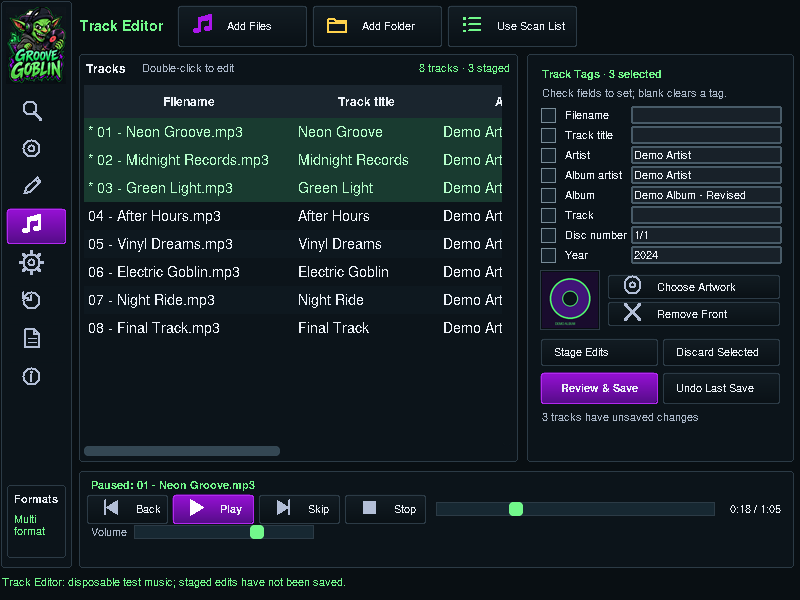
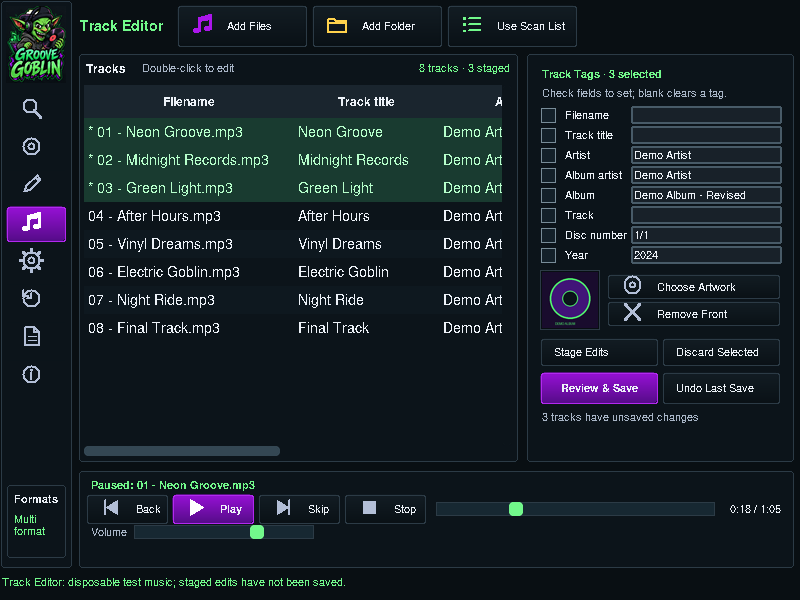
Polish sidebar branding, format footer and About window

diff --git a/groove_layout.py b/groove_layout.py
@@ -35,6 +35,46 @@ def install_layout(cls):
     old_clear=cls.clear
     old_show=cls.show_editor
 
+    def show_about(self):
+        existing=getattr(self,'_about_window',None)
+        if existing is not None and existing.winfo_exists():
+            existing.lift();existing.focus_set();return
+        window=tk.Toplevel(self,bg=BG)
+        self._about_window=window
+        window.title('About Groove Goblin');window.transient(self)
+        window.geometry('620x540');window.minsize(560,520)
+        body=tk.Frame(window,bg=BG);body.pack(fill='both',expand=True,padx=16,pady=14)
+        Button(body,'Close',window.destroy,width=110,height=36,primary=True,font=(self.ui_font,10)).pack(side='bottom',anchor='e',pady=(4,0))
+        heading=tk.Frame(body,bg=BG);heading.pack(fill='x',pady=(0,8))
+        tk.Label(heading,text='GROOVE GOBLIN',bg=BG,fg=GREEN,font=(self.ui_font,18,'bold')).pack(anchor='w')
+        tk.Label(heading,text=f'Version {__version__}',bg=BG,fg=MUTED,font=(self.ui_font,9)).pack(anchor='w',pady=(2,4))
+        description=tk.Label(heading,text='Match albums, edit tags and artwork, organize files and folders,\nand listen to your music.',bg=BG,fg=FG,font=(self.ui_font,9),justify='left',anchor='w')
+        description.pack(fill='x')
+        wrapped=[description]
+        def section(title,height):
+            panel=Panel(body,height=height,padding=12)
+            panel.pack(fill='x',pady=(0,10))
+            tk.Label(panel.body,text=title,bg=PANEL,fg=GREEN,font=(self.ui_font,11,'bold')).pack(anchor='w',pady=(0,6))
+            return panel.body
+        def paragraph(parent,text,color=FG):
+            label=tk.Label(parent,text=text,bg=PANEL,fg=color,font=(self.ui_font,9),justify='left',anchor='w')
+            label.pack(fill='x',pady=(0,3));wrapped.append(label)
+            return label
+        formats=section('Audio formats',190)
+        paragraph(formats,'Tag editing, artwork and playback',GREEN)
+        paragraph(formats,'WAV, AIFF, FLAC, ALAC/M4A, APE, WavPack, MP3, Ogg/Vorbis,\nWMA, Opus and DSD (DSF/DFF).')
+        paragraph(formats,'AAC / PCM — Filename editing and playback only. Raw PCM needs its sample settings.',MUTED)
+        paragraph(formats,'CDA — A reference to a track on an audio CD. Rip the CD to an audio file before editing or playback.',MUTED)
+        saving=section('Changes & undo',134)
+        paragraph(saving,'Scanning and previews leave your music unchanged.')
+        paragraph(saving,'Track Editor saves keep full-file backups for Undo.',MUTED)
+        paragraph(saving,'Organizer Undo restores the edited tags and file/folder names. Keep your own music backup too.',MUTED)
+        def resize(event):
+            if event.widget is window:
+                for label in wrapped:label.configure(wraplength=max(420,event.width-64))
+        window.bind('<Configure>',resize,add='+')
+        window.bind('<Escape>',lambda event:window.destroy())
+
     def build_style(self):
         old_style(self)
         self.ui_font='Segoe UI' if 'Segoe UI' in tkfont.families(self) else 'Helvetica'
@@ -159,9 +199,8 @@ def install_layout(cls):
         with Image.open(Path(__file__).parent/'assets/groove_goblin_logo.png') as source:
             im=source.convert('RGBA');im.thumbnail((238,316),Image.Resampling.LANCZOS)
             self.logo=ImageTk.PhotoImage(im,master=self)
-        self._logo_label=tk.Label(brand,image=self.logo,bg=PANEL)
+        self._logo_label=tk.Label(brand,image=self.logo,bg=PANEL,bd=0,padx=0,pady=0)
         self._logo_label.pack(pady=(0,8))
-        tk.Label(brand,text='MUSIC TAGGER\n& ORGANIZER',bg=PANEL,fg=FG,font=(self.ui_font,10,'bold')).pack(pady=(0,17))
         nav=tk.Frame(side,bg=PANEL)
         nav.grid(row=1,column=0,sticky='ew')
         for name,label,symbol,action in [
@@ -172,18 +211,19 @@ def install_layout(cls):
             ('settings','Settings','gear',self.show_settings),
             ('undo','Undo / Backups','undo',lambda:self.tabs.select(self.tab_history)),
             ('logs','View Logs','files',lambda:self.tabs.select(self.tab_history)),
-            ('about','About','info',lambda:messagebox.showinfo('Groove Goblin',f'Groove Goblin {__version__}\nMusic tagger & organizer\n\nScanning and preview are read-only.\nEmbedded tags: WAV/AIFF, FLAC, ALAC/M4A, APE, WV,\nMP3, Ogg/Opus, WMA, DSF/DFF.\nRaw AAC/PCM: filenames and playback.\nCDA: CD references; rip before editing/playing.\nManual saves keep full-file undo backups.\nOrganizer journals store edited fields and paths.')),
+            ('about','About','info',self.show_about),
         ]:
             b=Button(nav,label,action,width=234,height=49,symbol=symbol,navigation=True,font=(self.ui_font,11))
             b.active=name=='scan';b.pack(fill='x',pady=1);self.nav_buttons[name]=b
         formats=Panel(side,height=160,padding=12)
         formats.grid(row=3,column=0,sticky='ew',pady=(8,12))
         tk.Label(formats.body,text='Supported Formats',bg=PANEL,fg=FG,font=(self.ui_font,10,'bold')).pack(anchor='w')
+        format_note=tk.Label(formats.body,text='* Format limits: see About',bg=PANEL,fg=MUTED,font=(self.ui_font,8),anchor='w')
+        format_note.pack(side='bottom',fill='x',pady=(4,0))
         formats_inner=tk.Frame(formats.body,bg=PANEL);formats_inner.pack(fill='both',expand=True,pady=(14,0))
         doc=tk.Canvas(formats_inner,width=76,height=84,bg=PANEL,highlightthickness=0)
         doc.pack(side='left',padx=(0,15));icon(doc,'files',6,2,70,'#c4cedc')
         tk.Label(formats_inner,text='WAV AIFF FLAC\nMP3 M4A ALAC\nAPE WV WMA\nOGG OPUS DSD\nAAC PCM CDA*',bg=PANEL,fg=GREEN,font=(self.ui_font,9),justify='left').pack(anchor='w')
-        tk.Label(formats_inner,text='* Limits: see About',bg=PANEL,fg=MUTED,font=(self.ui_font,8)).pack(anchor='w',pady=(9,0))
         tk.Label(side,text=f'Groove Goblin v{__version__}',bg=PANEL,fg=MUTED,font=(self.ui_font,9)).grid(row=4,column=0,sticky='w',pady=(4,8))
 
         # Main center + compact right rail.
@@ -317,7 +357,7 @@ def install_layout(cls):
         from groove_track_editor import TrackEditor
         self.track_editor=TrackEditor(self)
         from groove_responsive import ResponsiveLayout
-        self._responsive=ResponsiveLayout(self,dict(sidebar=sidebar,side=side,brand=brand,nav=nav,formats=formats,doc=doc,
+        self._responsive=ResponsiveLayout(self,dict(sidebar=sidebar,side=side,brand=brand,nav=nav,formats=formats,doc=doc,format_note=format_note,
             center=center,toolbar=toolbar,checkrow=checkrow,albums=albums,preview=preview,filters=filters,views=views,
             opts=opts,details=details,results=results,form=form,yearrow=yearrow,actions=actions,
             footer=footer,footer_spacer=footer_spacer,controls=controls))
@@ -467,7 +507,7 @@ def install_layout(cls):
     cls.build_style=build_style;cls.build_ui=build_ui
     cls.refresh_preview=refresh_preview;cls.clear=clear;cls.show_editor=show_editor
     cls.populate_albums=populate_albums;cls.update_cover=update_cover;cls.result_cover=result_cover;cls.choose_result=choose_result
-    cls.show_settings=show_settings;cls.add_files=add_files
+    cls.show_settings=show_settings;cls.show_about=show_about;cls.add_files=add_files
     cls.toggle_all_preview=toggle_all_preview
     cls.toggle_all_albums=toggle_all_albums
     cls.toggle_album_id=toggle_album_id;cls.toggle_preview_id=toggle_preview_id

diff --git a/groove_responsive.py b/groove_responsive.py
@@ -17,7 +17,6 @@ class ResponsiveLayout:
         self.walk(app)
         self.toolbar=list(widgets['toolbar'].winfo_children())
         self.checks=[child for child in widgets['checkrow'].winfo_children() if isinstance(child,Check)]
-        self.caption=[c for c in widgets['brand'].winfo_children() if isinstance(c,tk.Label) and c is not app._logo_label][0]
         self.version=[c for c in widgets['side'].winfo_children() if isinstance(c,tk.Label)][0]
         self.format_title=widgets['formats'].body.winfo_children()[0]
         self.format_inner=widgets['doc'].master
@@ -98,15 +97,15 @@ class ResponsiveLayout:
             panel.resize(SimpleNamespace(width=panel.winfo_width(),height=panel.winfo_height()))
 
         nav_height=(36 if compact else (40 if medium else 49))+2
-        logo_budget=max(70,height-len(a.nav_buttons)*nav_height-(74 if self.icon_nav else (128 if medium else 170))-140)
-        logo_width=60 if self.icon_nav else min(156 if medium else 238,int(logo_budget*self.logo_source.width/self.logo_source.height))
+        logo_budget=max(70,height-len(a.nav_buttons)*nav_height-(74 if self.icon_nav else (128 if medium else 170))-90)
+        logo_width=60 if self.icon_nav else min(160 if medium else 238,int(logo_budget*self.logo_source.width/self.logo_source.height))
         if logo_width!=self.logo_size:
             img=self.logo_source.copy();img.thumbnail((logo_width,320),Image.Resampling.LANCZOS)
             a.logo=ImageTk.PhotoImage(img,master=a);a._logo_label.configure(image=a.logo);self.logo_size=logo_width
         if self.icon_nav:
-            self.caption.pack_forget();self.version.grid_remove()
+            self.version.grid_remove()
         else:
-            self.caption.pack(pady=(0,8 if medium else 17));self.version.grid()
+            self.version.grid()
         for name,button in a.nav_buttons.items():
             button.text='' if self.icon_nav else self.nav_text[name]
             button.configure(width=sidebar_width-20,height=36 if compact else (40 if medium else 49));button.draw()
@@ -114,12 +113,13 @@ class ResponsiveLayout:
         formats.grid_configure(pady=(3,4) if compact else (8,12))
         self.format_title.configure(text='Formats' if self.icon_nav else 'Supported Formats')
         if self.icon_nav:
-            w['doc'].pack_forget();self.format_labels[-1].pack_forget()
+            w['doc'].pack_forget();w['format_note'].pack_forget()
             self.format_inner.pack_configure(pady=(3,0))
             self.format_labels[0].configure(text='Multi\nformat')
         else:
             w['doc'].pack(side='left',padx=(0,8 if medium else 15),before=self.format_labels[0])
-            self.format_labels[-1].pack(anchor='w',pady=(4,0));self.format_inner.pack_configure(pady=(7 if medium else 14,0))
+            w['format_note'].pack(side='bottom',fill='x',pady=(4,0),before=self.format_inner)
+            self.format_inner.pack_configure(pady=(7 if medium else 10,0))
             self.format_labels[0].configure(font=(a.ui_font,8 if medium else 9),text='WAV AIFF FLAC\nMP3 M4A ALAC\nAPE WV WMA\nOGG OPUS DSD\nAAC PCM CDA*')
             w['doc'].configure(width=50 if medium else 76,height=64 if medium else 84)
             w['doc'].delete('all');icon(w['doc'],'files',4,2,46 if medium else 70,'#c4cedc')

diff --git a/tests/test_track_editor.py b/tests/test_track_editor.py
@@ -77,8 +77,21 @@ class TrackEditorTests(unittest.TestCase):
         e.inline.event_generate('<Return>');self.app.update()
         self.assertEqual(e.pending[path]['title'],'Inline title')
         self.assertEqual(read_track(path)['title'],'First')
-        with patch('groove_layout.messagebox.showinfo') as info:self.app.nav_buttons['about'].invoke()
-        self.assertIn(__version__,info.call_args.args[1])
+        self.app.nav_buttons['about'].invoke();self.app.update()
+        dialog=self.app._about_window
+        def descendants(widget):
+            for child in widget.winfo_children():
+                yield child
+                yield from descendants(child)
+        labels=[w for w in descendants(dialog) if w.winfo_class()=='Label']
+        self.assertTrue(any(__version__ in w.cget('text') for w in labels))
+        self.app.show_about();self.assertIs(self.app._about_window,dialog)
+        for size in ('560x520','620x540'):
+            dialog.geometry(size);self.app.update()
+            for label in labels:
+                self.assertGreaterEqual(label.winfo_height(),label.winfo_reqheight(),label.cget('text'))
+                self.assertLessEqual(label.winfo_rooty()+label.winfo_height(),label.master.winfo_rooty()+label.master.winfo_height(),label.cget('text'))
+        dialog.destroy()
 
     def test_presets_update_live_previews_and_use_approved_album(self):
         from groove_core import scan_folders
@@ -212,8 +225,15 @@ class TrackEditorTests(unittest.TestCase):
         a.tabs.select(a.tab_albums);a.update()
         self.assertTrue(a.btn_apply.winfo_ismapped())
         a.geometry('1536x1000');a.update();a._responsive.apply();a.update()
-        caption=a._responsive.caption;version=a._responsive.version
+        version=a._responsive.version
         import tkinter.font as tkfont
-        font=tkfont.Font(master=a,font=caption.cget('font'))
-        self.assertLessEqual(max(font.measure(line) for line in caption.cget('text').splitlines()),caption.winfo_width())
+        self.assertEqual(a._responsive.w['brand'].winfo_children(),[a._logo_label])
+        self.assertGreaterEqual(a.logo.width(),200)
         self.assertLessEqual(version.winfo_rooty()+version.winfo_height(),a.winfo_rooty()+a.winfo_height())
+        for size in ('1120x740','1320x800','1536x1000','1920x1080'):
+            a.geometry(size);a.update();a._responsive.apply();a.update()
+            note=a._responsive.w['format_note'];font=tkfont.Font(master=a,font=note.cget('font'))
+            self.assertTrue(note.winfo_ismapped())
+            self.assertLessEqual(font.measure(note.cget('text')),note.winfo_width())
+            self.assertGreaterEqual(note.winfo_height(),note.winfo_reqheight())
+            self.assertLessEqual(note.winfo_rooty()+note.winfo_height(),note.master.winfo_rooty()+note.master.winfo_height())

diff --git a/groove_version.py b/groove_version.py
@@ -1,2 +1,2 @@
 """One version string for the window, About, journals and network user agent."""
-__version__ = '1.2.0'
+__version__ = '1.2.1'

diff --git a/README.md b/README.md
@@ -1,4 +1,4 @@
-# Groove Goblin 1.2.0
+# Groove Goblin 1.2.1
 
 Windows desktop music tagger and organizer with a responsive dark Tkinter
 interface, MusicBrainz album lookup, naming presets, manual track editing,
@@ -101,12 +101,14 @@ Tables use slim rounded scrollbars; player sliders have green handles.
 
 The app fits windows down to 800×600 without an outer scrollbar. Lists scroll
 internally when needed. Resizing reduces artwork and spacing and uses sidebar
-icons with hover labels on compact screens. The branding caption uses two lines
-to fit. [Compact Scan & Fix](docs/interface-compact-linux.png) and
+icons with hover labels on compact screens. The logo fills the available sidebar
+space. Format notes have a full-width footer, and [About](docs/about-linux.png)
+groups supported formats and Undo information in styled panels.
+[Compact Scan & Fix](docs/interface-compact-linux.png) and
 [compact Track Editor](docs/track-editor-compact-linux.png) show the actual UI.
 Tab navigates controls, Ctrl / Shift selects multiple editor rows, F11 enters
 fullscreen and Esc exits. Ctrl +/- adjusts organizer table text. About and the
-sidebar display version 1.2.0.
+sidebar display version 1.2.1.
 
 Screenshots were captured on a Linux virtual display with disposable generated
 audio and covers; online results are mocked. They show the running application,

diff --git a/CHANGELOG.md b/CHANGELOG.md
@@ -1,5 +1,11 @@
 # Changelog
 
+## 1.2.1
+
+- Removed the branding caption and enlarged the sidebar logo.
+- Gave the format-limits note a full-width footer to prevent clipping.
+- Replaced the About message box with a styled window and clearer format/Undo sections.
+
 ## 1.2.0
 
 - Added container-aware tagging/artwork for WAV, AIFF, ALAC/M4A, APE, WavPack,

diff --git a/docs/formats.md b/docs/formats.md
@@ -1,4 +1,4 @@
-# Audio formats in Groove Goblin 1.2.0
+# Audio formats in Groove Goblin 1.2.1
 
 Add Files, folder scans, Explorer drops, Track Editor and cover previews share
 one format list. A filename extension is checked against the actual container;
